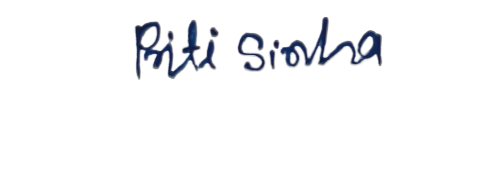
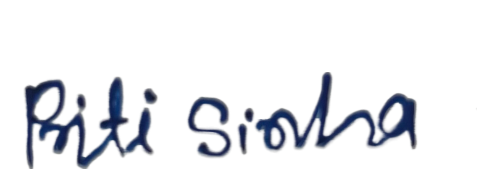
Push recent changes to marksheet project

Changed region(s): [[0.36, 0.4142, 0.84, 0.9467], [0.03, 0.4438, 0.33, 1.0], [0.27, 0.0888, 0.78, 0.4734]]

diff --git a/src/App.css b/src/App.css
@@ -12,20 +12,6 @@ body {
   box-sizing: border-box;
 }
 
-.input-form {
-  display: flex;
-  flex-wrap: wrap;
-  gap: 1rem;
-  margin-bottom: 20px;
-}
-
-.input-form label {
-  display: flex;
-  flex-direction: column;
-  font-weight: bold;
-  width: 200px;
-}
-
 .marksheet {
   position: relative;
   padding: 20px;
@@ -35,11 +21,11 @@ body {
 
 .watermark {
   position: absolute;
-  top: 330px;
+  top: 270px;
   left: 50%;
   transform: translateX(-50%);
   opacity: 0.1;
-  width: 400px;
+  width: 300px;
   z-index: 0;
 }
 
@@ -53,14 +39,7 @@ body {
 
 .header .left,
 .header .right {
-  font-weight: bold;
-  font-size: 14px;
-  width: 130px;
-}
-
-.header .right p {
-  white-space: nowrap;
-  margin: 0;
+  width: 110px;
 }
 
 .header .center {
@@ -92,8 +71,8 @@ body {
 .student-details {
   margin-top: 10px;
   font-weight: bold;
-  z-index: 1;
   position: relative;
+  z-index: 1;
 }
 
 .marks-table {
@@ -111,31 +90,46 @@ body {
   padding: 5px;
 }
 
-.mark-input {
-  width: 60px;
-  padding: 4px;
-  text-align: center;
-}
-
 .summary,
 .remarks {
-  margin-top: 15px;
+  margin-top: 10px;
   font-weight: bold;
   position: relative;
   z-index: 1;
 }
 
-.signature-section {
-  margin-top: 60px;
-  text-align: right;
-  position: relative;
-  z-index: 1;
+.marksheet-sign-row {
+  display: flex;
+  justify-content: flex-end;
+  align-items: flex-end;
+  width: 100%;
+  margin-top: 40px;
+  margin-bottom: 0;
 }
 
-.signature {
-  width: 120px;
-  display: block;
-  margin-left: auto;
+.marksheet-sign-block {
+  display: flex;
+  flex-direction: column;
+  align-items: flex-end;
+  margin-right: 32px;
+}
+
+.marksheet-signature {
+  width: 150px;
+  height: auto;
+}
+
+.marksheet-sign-label {
+  font-size: 1.3rem;
+  margin-top: 6px;
+  color: #222;
+  text-align: right;
+}
+
+.marksheet-mohar {
+  width: 180px;
+  height: auto;
+  margin-bottom: 4px;
 }
 
 .download-btn {
@@ -151,4 +145,36 @@ body {
 
 .download-btn:hover {
   background-color: #0056b3;
+}
+
+@media print {
+  html, body {
+    background: #fff !important;
+    margin: 0 !important;
+    padding: 0 !important;
+    width: 210mm !important;
+    height: 297mm !important;
+    overflow: hidden !important;
+    -webkit-print-color-adjust: exact !important;
+    print-color-adjust: exact !important;
+  }
+
+  .container,
+  .marksheet-container {
+    padding: 0 8mm !important;
+    box-sizing: border-box !important;
+    height: 100% !important;
+    max-height: 294mm !important;
+    overflow: hidden !important;
+    page-break-inside: avoid !important;
+  }
+
+  .marksheet {
+    margin-bottom: 0 !important;
+    padding-bottom: 0 !important;
+  }
+
+  .download-btn {
+    display: none !important;
+  }
 }

diff --git a/src/App.js b/src/App.js
@@ -5,6 +5,7 @@ import html2pdf from "html2pdf.js";
 import logo from "./assets/logo.png";
 import signature from "./assets/signature.png";
 import watermark from "./assets/watermark.png"; // 10% opacity image
+import mohar from './assets/mohar.png';
 
 const sessions = Array.from({ length: 12 }, (_, i) => `${2016 + i}–${17 + i}`);
 
@@ -140,7 +141,7 @@ function App() {
               <tr key={subject}>
                 <td>{subject}</td>
                 <td>100</td>
-                <td>40</td>
+                <td>30</td>
                 <td></td>
                 <td></td>
                 <td>
@@ -173,9 +174,12 @@ function App() {
           </p>
         </div>
 
-        <div className="signature-section">
-          <img src={signature} alt="Signature" className="signature" />
-          <p>Sign. of Principal</p>
+        <div className="marksheet-sign-row">
+          <div className="marksheet-sign-block">
+            <img src={require('./assets/signature.png')} alt="Principal Signature" className="marksheet-signature" />
+            <div className="marksheet-sign-label">Sign. of Principal</div>
+            <img src={mohar} alt="School Stamp" className="marksheet-mohar" />
+          </div>
         </div>
       </div>
 
